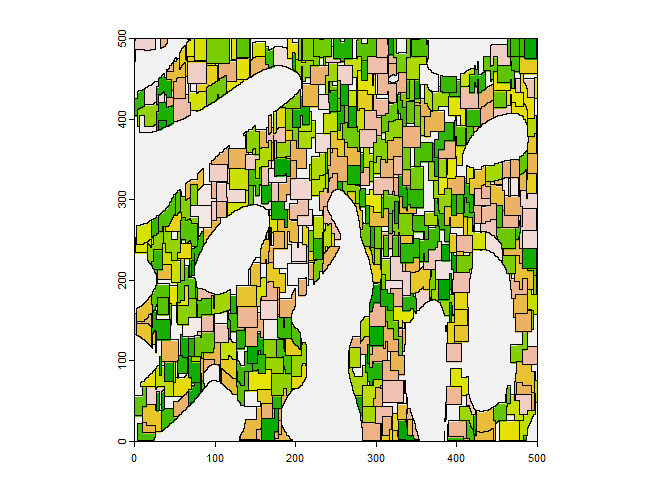
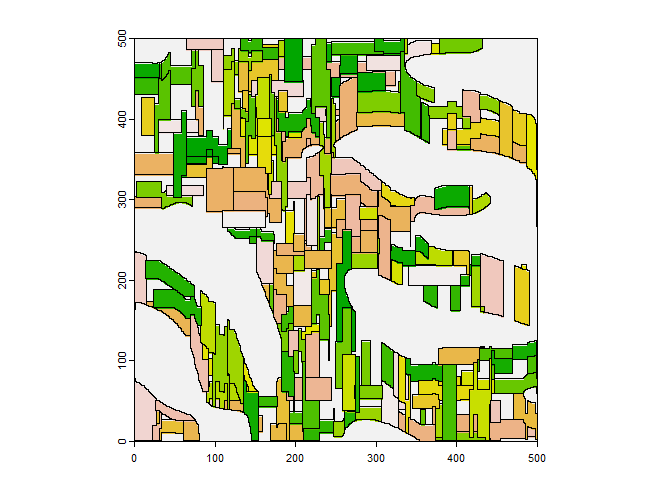
updates function parameters

diff --git a/README.md b/README.md
@@ -38,16 +38,12 @@ r<-generate_pn(500,500,1,1,3,0.005,TRUE, "land_percentage", percetange = 70)
 output<-establish_pac(potential_space= r,
                       cell_size=1,
                       includsion_value = 1,
-                      mean_field_size = 500,
-                      sd_field_size = 100,
+                      mean_field_size = 1000,
+                      sd_field_size = 500,
                       distribution = "norm",
-                      mean_shape_index = 1,
-                      sd_shape_index = 0.3,
-                      percent = 90,
-                      assign_farmers = TRUE,
-                      assign_mode = 2,
-                      mean_fields_per_farm = 3,
-                      sd_fields_per_farm = 3)
+                      mean_shape_index = 4,
+                      sd_shape_index = 1,
+                      percent = 80)
 
 
 return_by_field(output, method = 1)
